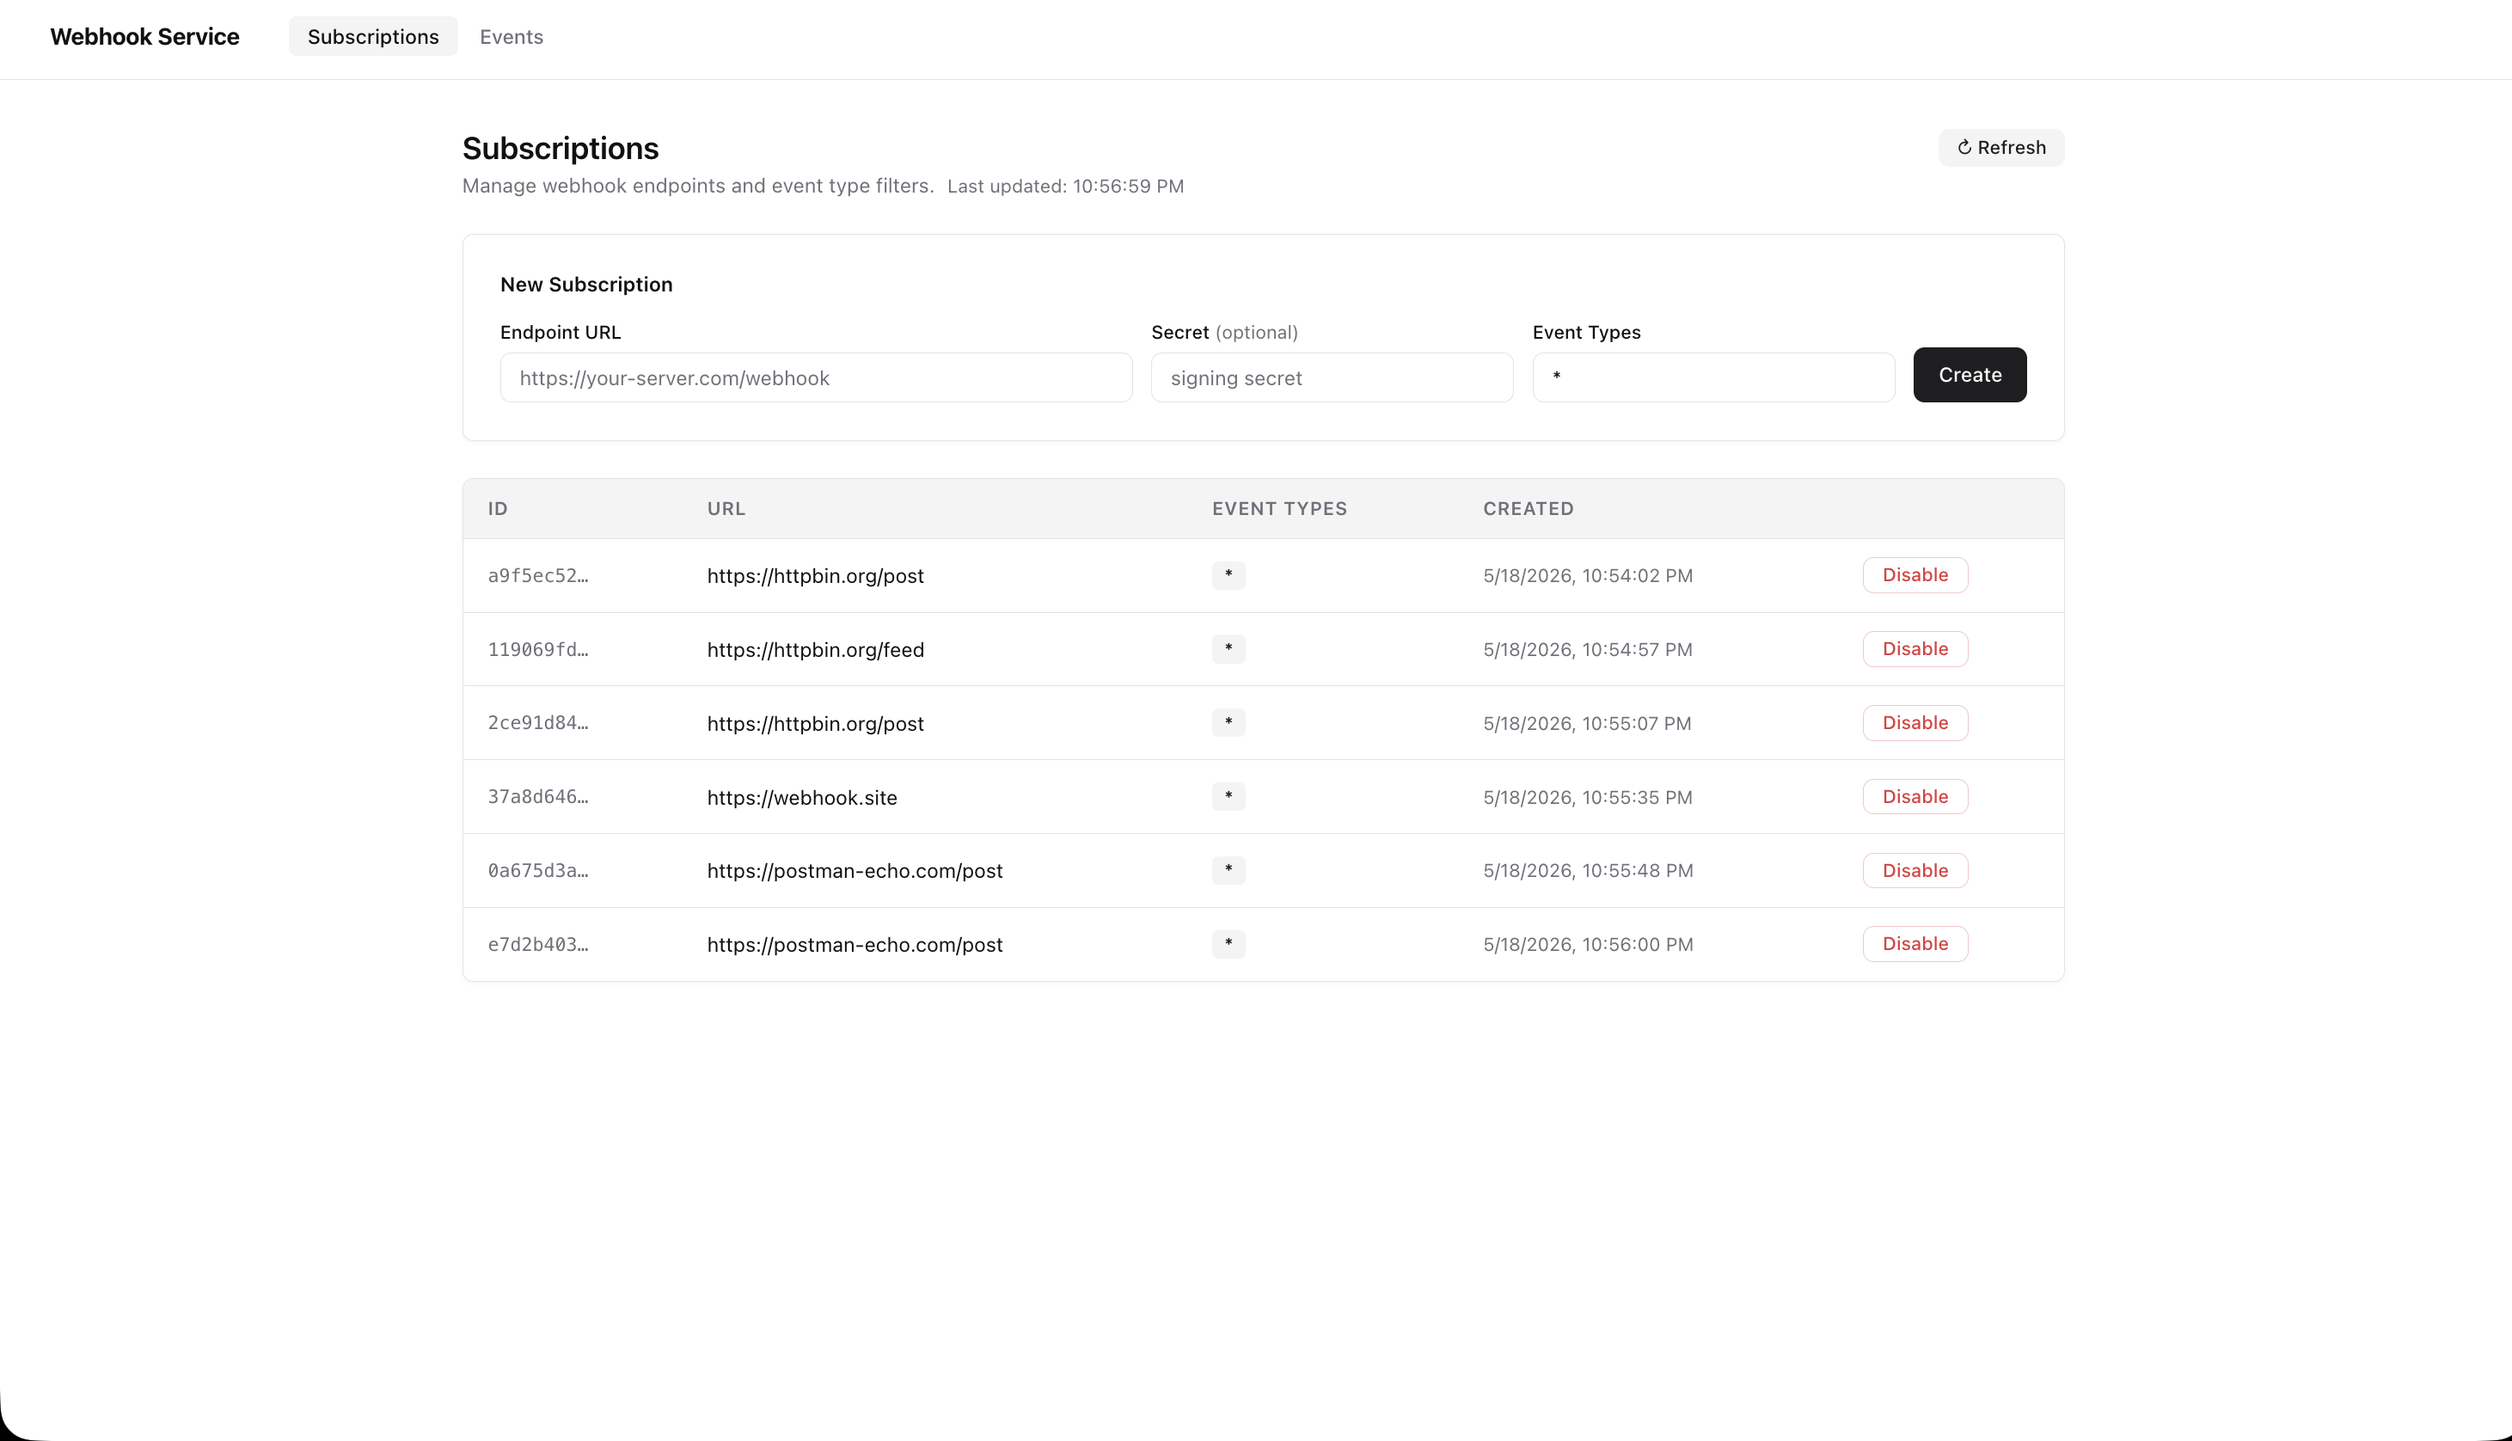
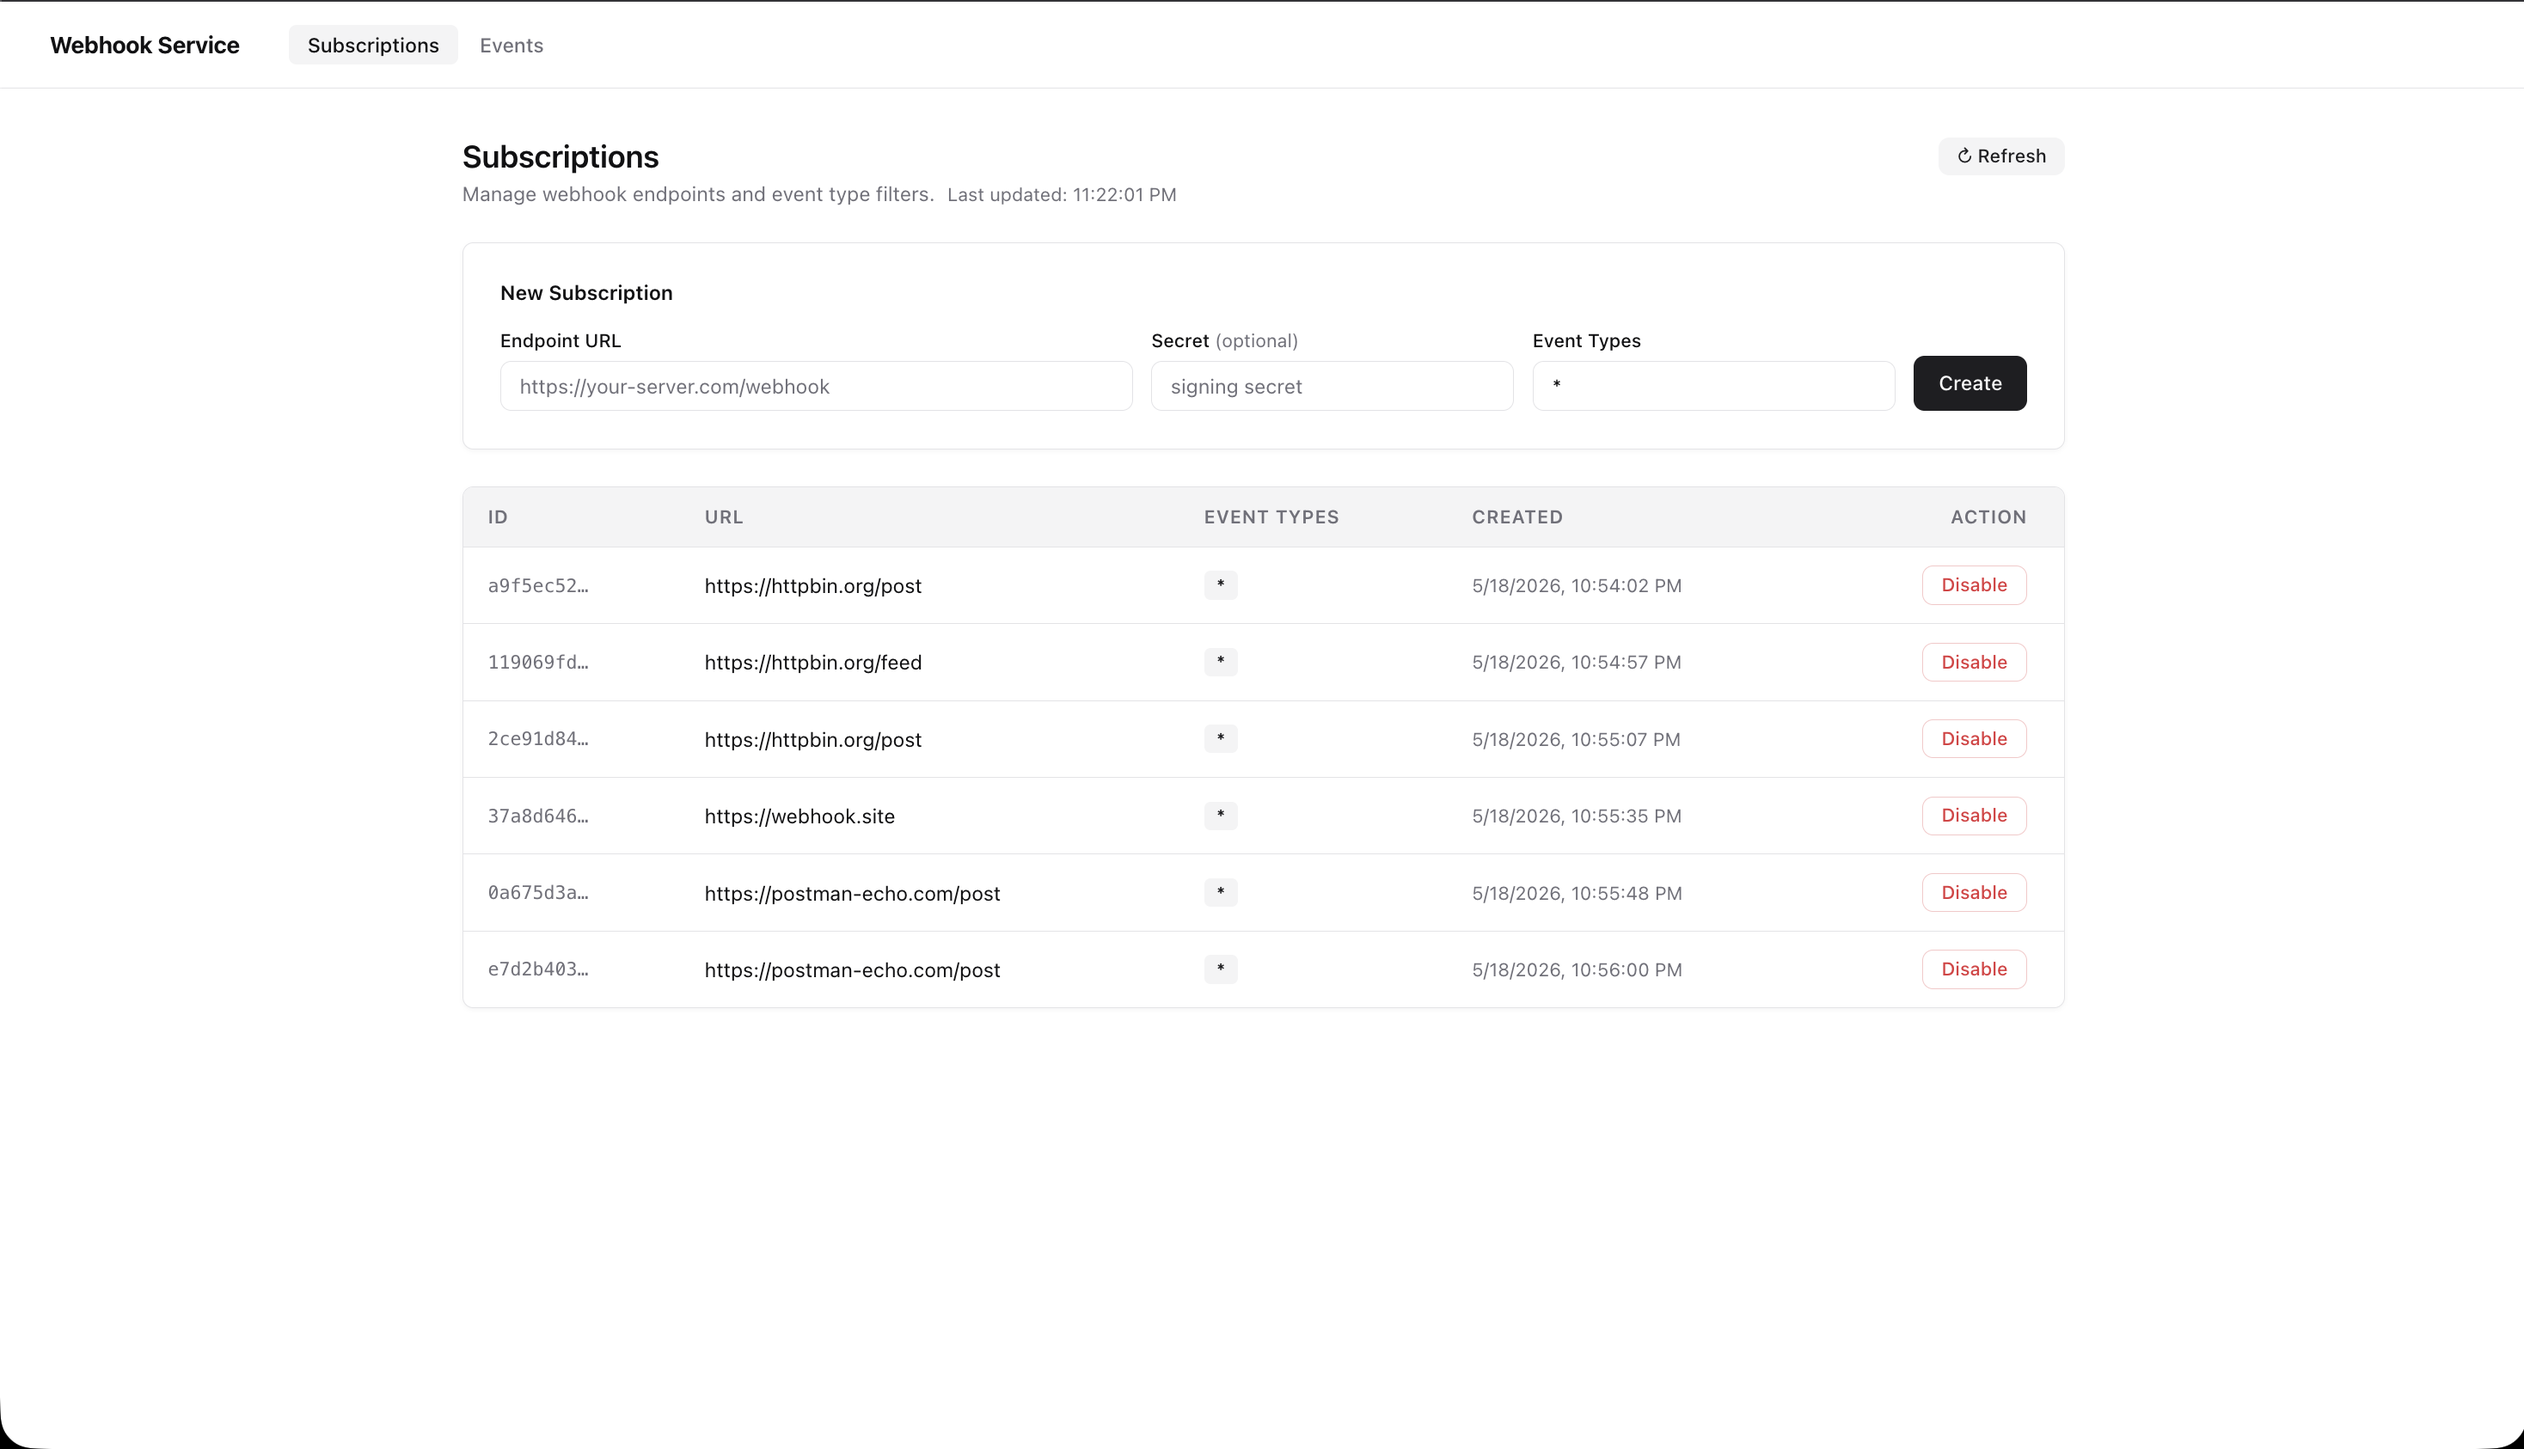
docs: add API testing examples and expand environment variables section with code blocks and authentication note

diff --git a/README.md b/README.md
@@ -89,7 +89,16 @@ npm test         # runs vitest in server/
 
 ## Environment variables
 
-Configure in `server/.env` (copy from `server/.env.example`).
+### Server (`server/.env`)
+
+```
+PORT=3000
+ADMIN_KEY=secret
+DB_PATH=./data/webhooks.db
+MAX_ATTEMPTS=5
+WORKER_INTERVAL_MS=5000
+INFLIGHT_TIMEOUT_MS=600000
+```
 
 | Var                   | Default              | Description                                    |
 | --------------------- | -------------------- | ---------------------------------------------- |
@@ -100,4 +109,48 @@ Configure in `server/.env` (copy from `server/.env.example`).
 | `WORKER_INTERVAL_MS`  | `5000`               | Worker poll interval                           |
 | `INFLIGHT_TIMEOUT_MS` | `600000`             | Stale in-flight reset threshold (10 min)       |
 
-Client env in `client/.env` — set `VITE_ADMIN_KEY` to match `ADMIN_KEY`.
+### Client (`client/.env`)
+
+```
+VITE_ADMIN_KEY=secret
+```
+
+**Note:** `VITE_ADMIN_KEY` must match `ADMIN_KEY` for API authentication to work.
+
+## API Testing (curl examples)
+
+### Create a subscription
+
+curl -X POST http://localhost:3000/api/subscriptions \\
+-H 'x-admin-key: secret' \\
+-H 'content-type: application/json' \\
+-d '{"url":"https://httpbin.org/post","event_types":["*"]}'
+
+### List subscriptions
+
+curl http://localhost:3000/api/subscriptions \\
+-H 'x-admin-key: secret'
+
+### Ingest an event
+
+curl -X POST http://localhost:3000/api/events \\
+-H 'x-admin-key: secret' \\
+-H 'content-type: application/json' \\
+-d '{"type":"order.created","payload":{"order_id":123,"amount":99.99}}'
+
+### List events (with delivery summary)
+
+curl http://localhost:3000/api/events \\
+-H 'x-admin-key: secret'
+
+### Get event details with delivery attempts
+
+curl http://localhost:3000/api/events/<event_id> \\
+-H 'x-admin-key: secret'
+
+### Retry a dead/failed delivery
+
+curl -X POST http://localhost:3000/api/events/<event_id>/retry \\
+-H 'x-admin-key: secret' \\
+-H 'content-type: application/json' \\
+-d '{"attemptId":"<attempt_id>"}'
